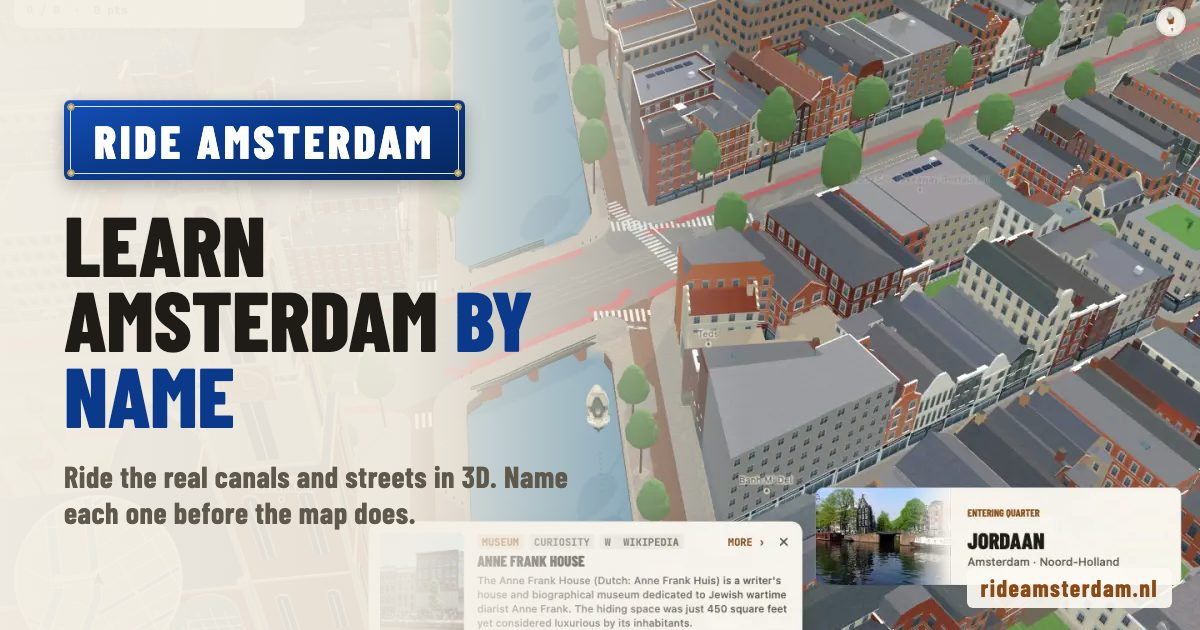
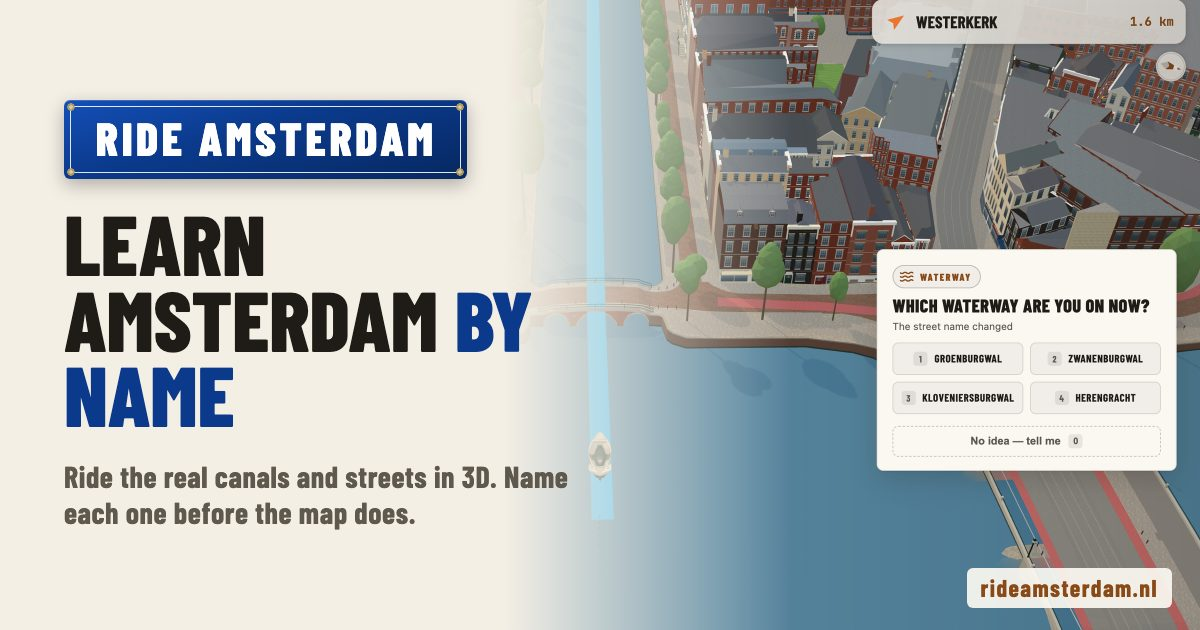
Share cards: optically centre the plaque text, rebuild both from the ride frame
The trailing letter-space (.08em) shifted the plaque ink ~2px left of centre
and the 18/16 padding sat the cap line 2.5px high. The card plaque now indents
by half the letter-space and pads 15/18, so the ink measures 33/35 and 23/22
px against the plate. Both og cards are rebuilt from the in-game frame (ride:
"Ride the real canals"; landing: "Learn Amsterdam by name"); the generator
takes an optional landing frame and CARDS= to render one card.

diff --git a/public/canal-drive/HISTORY.md b/public/canal-drive/HISTORY.md
@@ -6,13 +6,16 @@ The ride page had no icon at all (the landing linked Map Quest's compass), and
 its `og:image` was a top-down map frame. Now `assets/brand/icon.svg` is a navy
 enamel plaque with a cream canal boat and wave, with `favicon-32.png` and a
 full-bleed `apple-touch-icon.png`; the ride and landing both link all three and
-the ride sets `theme-color` to the plaque navy. The preview card is rebuilt from
-a real ride frame (canal, bridge and terraces with the "which waterway are you
-on now?" card open)
-with the plaque, "Ride the real canals", "Name each one before the map does."
-and the domain. `scripts/landing/render-share-images.mjs` gained
-`CARDS=ride|landing` so a fresh ride frame does not overwrite the landing card.
-The source frame is `artifacts/share-capture/ride-frame.png` (temporary).
+the ride sets `theme-color` to the plaque navy. Both preview cards are rebuilt
+from the same real ride frame (canal, bridge and terraces with the "which
+waterway are you on now?" card open): the ride says "Ride the real canals",
+"Name each one before the map does."; the landing keeps "Learn Amsterdam by
+name". The plaque text is now optically centred: the trailing letter-space
+(`letter-spacing: .08em`) shifted the ink ~2px left, and the 18/16 padding sat
+the cap line 2.5px high, so it indents by `.04em` and pads 15/18.
+`render-share-images.mjs` now takes an optional landing frame and `CARDS=` to
+render one card. The source frame is `artifacts/share-capture/ride-frame.png`
+(temporary).
 
 ## Setup: Amsterdam only, no destination or tour pickers, three questions a minute (2026-10-22)
 
